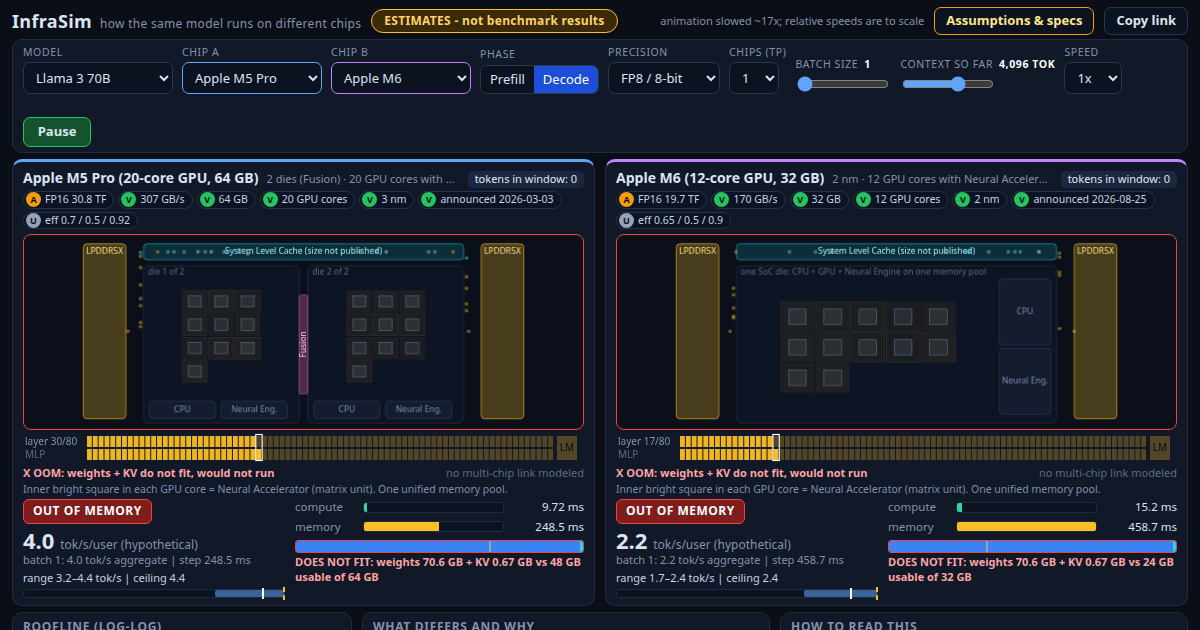
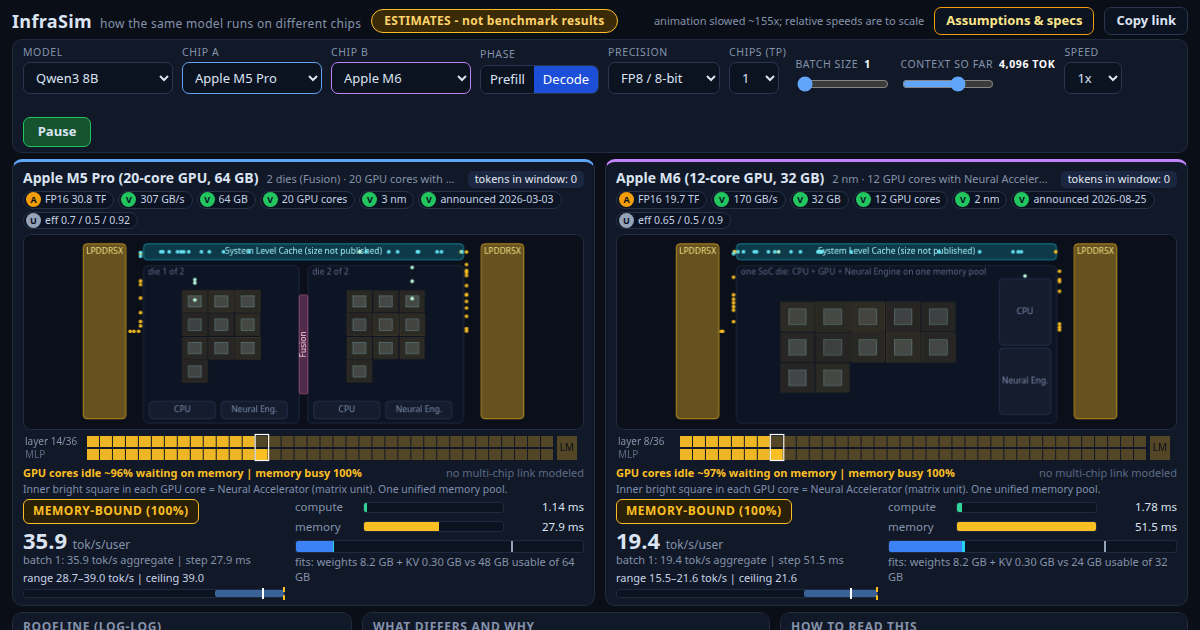
Default InfraSim to Qwen3 8B so the M6 comparison fits in memory.
Qwen3 8B is the largest model that fits in the M6's 24 GB usable memory at FP8. Rebuild the single file and replace the Open Graph screenshot.

diff --git a/infrasim/index.html b/infrasim/index.html
@@ -351,7 +351,7 @@ function explain(a, b, ca, cb, o) {
 
 // ---- share-state URL hash ----------------------------------------------
 const BATCHES = [1,2,4,8,16,32,64,128,256], CTXS = [128,256,512,1024,2048,4096,8192,16384,32768];
-const DEFAULT_STATE = { model:'llama3-70b', A:'m5pro', B:'m6', phase:'decode', prec:'fp8', tp:1, B_:1, L:4096, spd:1, effA:null, effB:null, assume:null };
+const DEFAULT_STATE = { model:'qwen3-8b', A:'m5pro', B:'m6', phase:'decode', prec:'fp8', tp:1, B_:1, L:4096, spd:1, effA:null, effB:null, assume:null };
 const r3 = x => String(Math.round(x*1000)/1000);
 // Encode only what differs from defaults for the optional overrides; always include the main controls.
 function encodeState(S, chipsById) {

diff --git a/infrasim/src/engine.js b/infrasim/src/engine.js
@@ -141,7 +141,7 @@ function explain(a, b, ca, cb, o) {
 
 // ---- share-state URL hash ----------------------------------------------
 const BATCHES = [1,2,4,8,16,32,64,128,256], CTXS = [128,256,512,1024,2048,4096,8192,16384,32768];
-const DEFAULT_STATE = { model:'llama3-70b', A:'m5pro', B:'m6', phase:'decode', prec:'fp8', tp:1, B_:1, L:4096, spd:1, effA:null, effB:null, assume:null };
+const DEFAULT_STATE = { model:'qwen3-8b', A:'m5pro', B:'m6', phase:'decode', prec:'fp8', tp:1, B_:1, L:4096, spd:1, effA:null, effB:null, assume:null };
 const r3 = x => String(Math.round(x*1000)/1000);
 // Encode only what differs from defaults for the optional overrides; always include the main controls.
 function encodeState(S, chipsById) {
